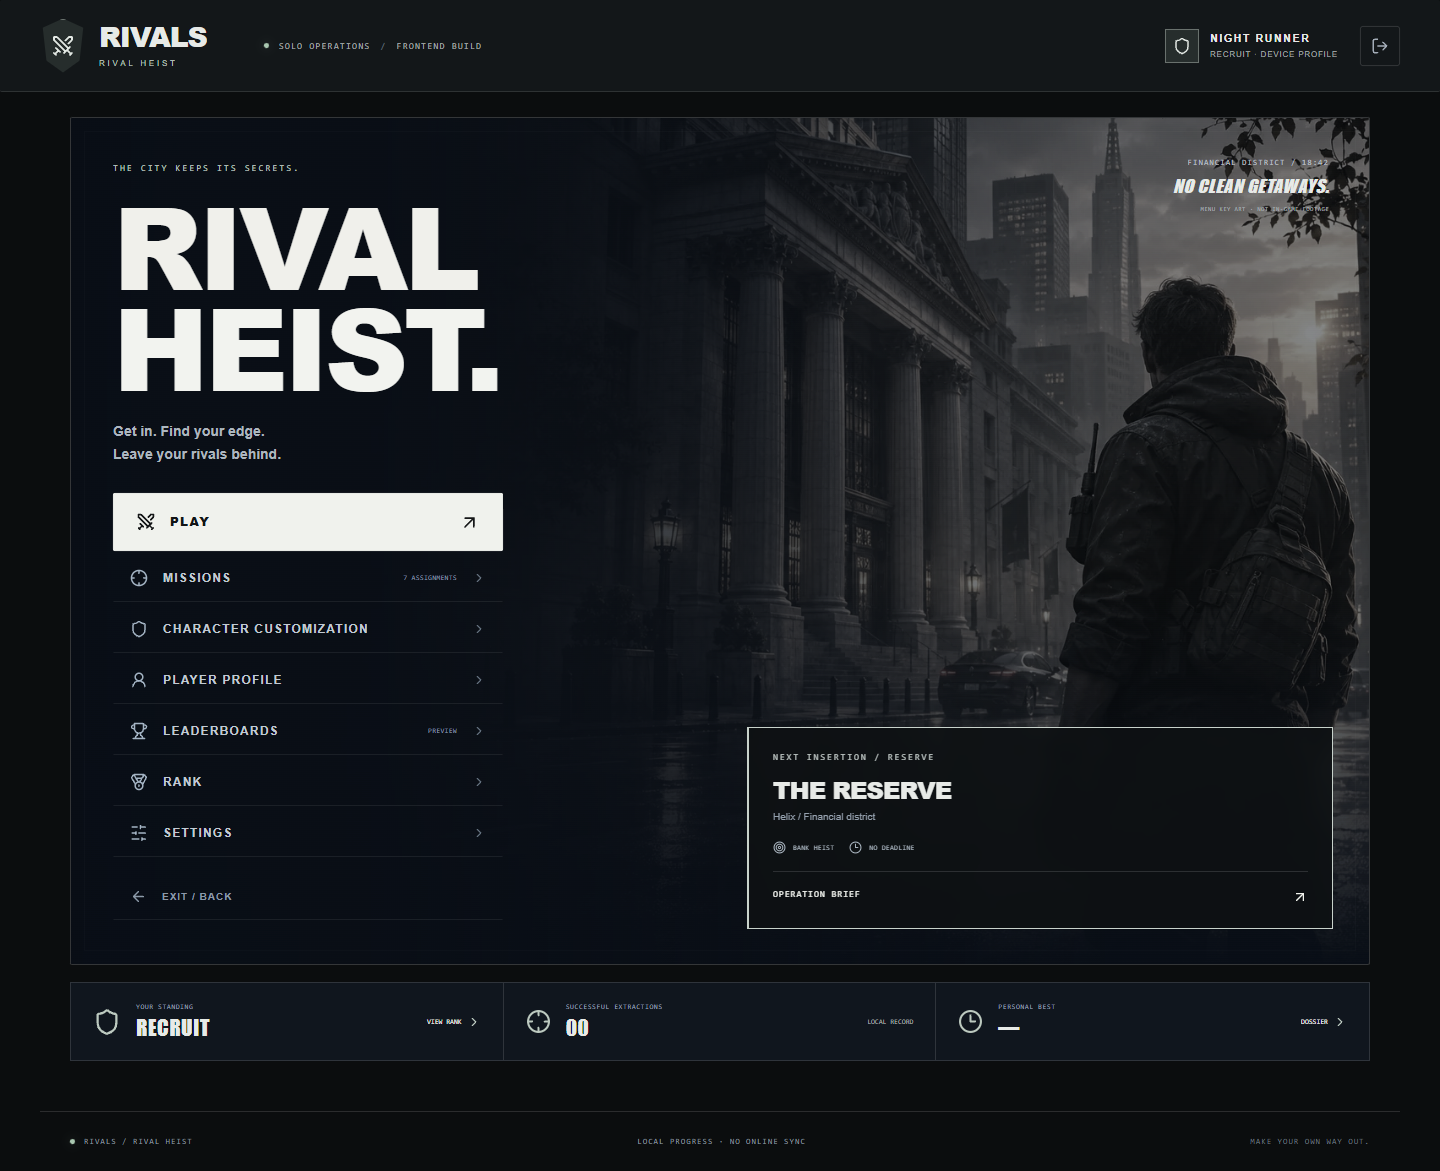
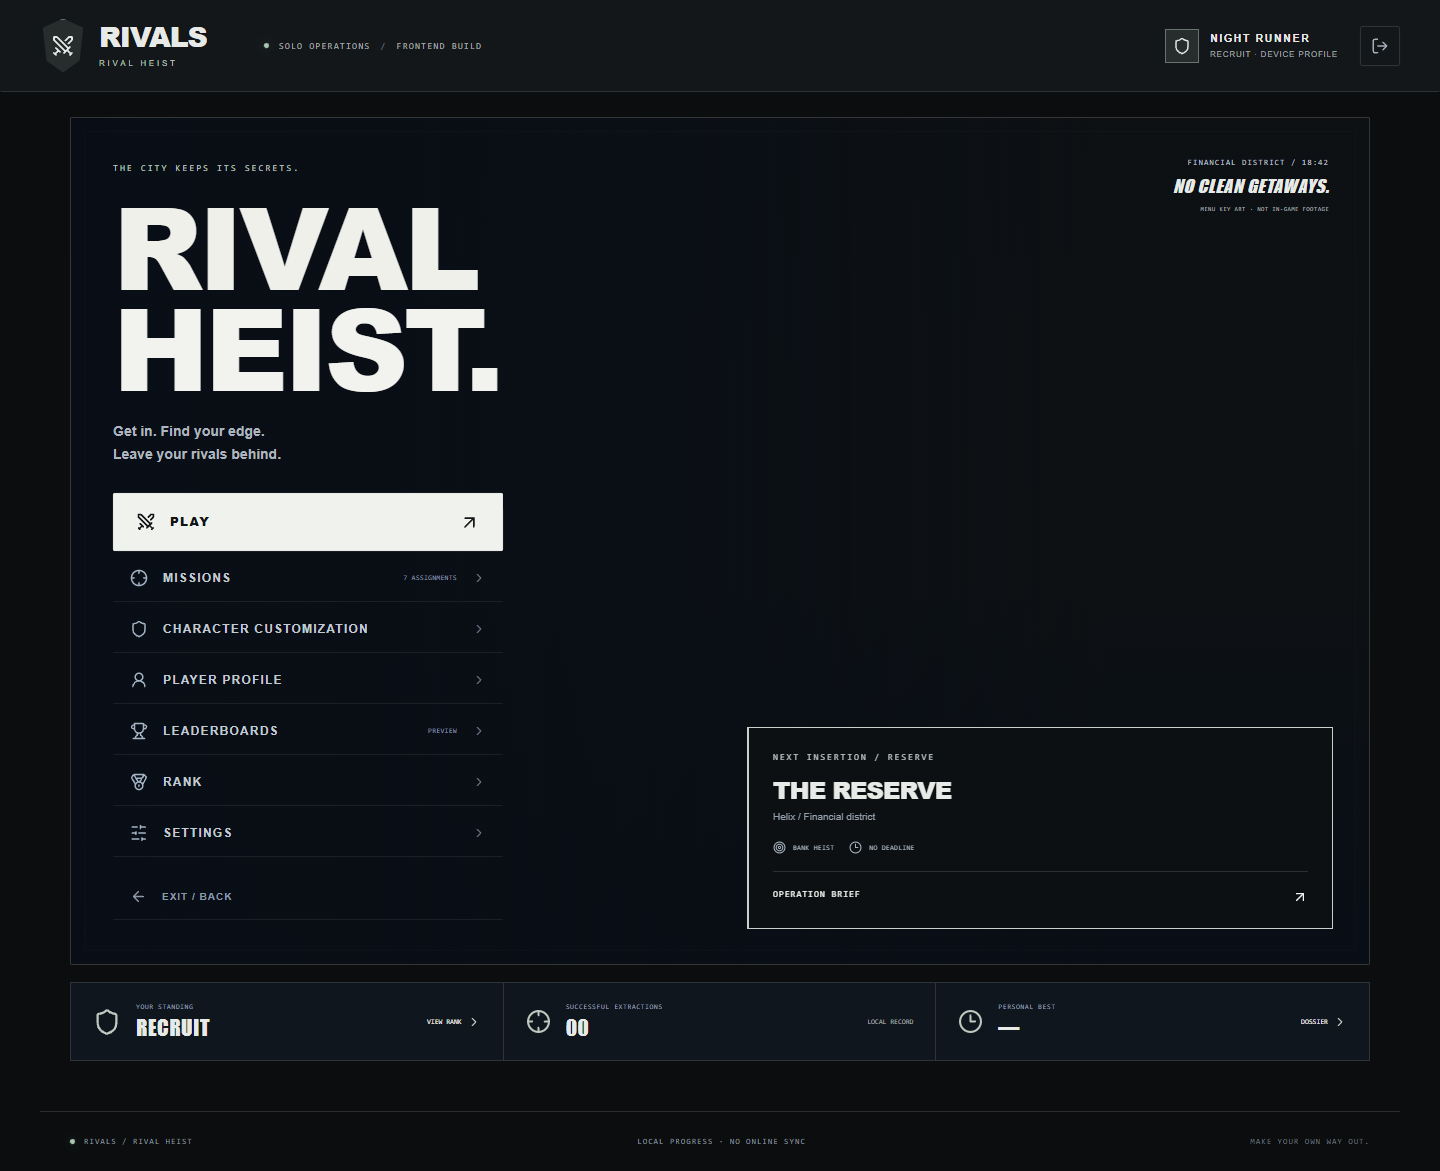
Fix mission interior routing and traffic parking clearance

Changed region(s): [[0.5312, 0.0922, 0.9688, 0.7378], [0.5625, 0.5841, 0.5938, 0.6149], [0.4375, 0.4304, 0.4688, 0.4611]]

diff --git a/robina/src/features/rivals/three/Campaign.test.ts b/robina/src/features/rivals/three/Campaign.test.ts
@@ -12,7 +12,7 @@ import { VehicleController,addParkedVehicles,driveVehicle,vehicleOverlap } from 
 import { PolicePursuit } from './PolicePursuit';
 import { CampaignGameplay } from './CampaignGameplay';
 import { moveKinematic } from './physics3d';
-function setup(index=0){const operation=createAssignmentOperation(index,43),world=new WorldState(operation.level);addAssignmentWalls(world,ASSIGNMENTS[index]);const solids=convertSolids(world),grid=new NavigationGrid(world.level.width,world.level.height,64,world.blockers),traffic=new CitySimulation(44);addParkedVehicles(traffic.cars);const vehicles=new VehicleController(traffic.cars),deploy=vi.fn(),police=new PolicePursuit(traffic.cars,grid,solids,ASSIGNMENTS[index].response,deploy),mission=new MissionEngine(operation.mission,'campaign-test-'+index);mission.prepare();mission.start();const game=new CampaignGameplay(index,mission,world,vehicles,police,grid);return{operation,world,solids,grid,vehicles,deploy,police,mission,game};}
+function setup(index=0){const operation=createAssignmentOperation(index,43),world=new WorldState(operation.level);addAssignmentWalls(world,ASSIGNMENTS[index]);const solids=convertSolids(world),grid=new NavigationGrid(world.level.width*2,world.level.height*2,32,world.blockers),traffic=new CitySimulation(44);addParkedVehicles(traffic.cars);const vehicles=new VehicleController(traffic.cars),deploy=vi.fn(),police=new PolicePursuit(traffic.cars,grid,solids,ASSIGNMENTS[index].response,deploy),mission=new MissionEngine(operation.mission,'campaign-test-'+index);mission.prepare();mission.start();const game=new CampaignGameplay(index,mission,world,vehicles,police,grid);return{operation,world,solids,grid,vehicles,deploy,police,mission,game};}
 describe('continuous 3D campaign',()=>{
   it('defines seven distinct assignments without numbered levels or difficulty selectors',()=>{expect(ASSIGNMENTS).toHaveLength(7);expect(new Set(ASSIGNMENTS.map(a=>a.type)).size).toBe(7);for(const a of ASSIGNMENTS){const mission=assignmentMission(a);expect(mission.timer.seconds).toBeNull();expect(mission.success).toEqual(['extract']);expect(mission.objectives.find(o=>o.id==='extract')!.prerequisites).toContain('recover');}});
   it.each(ASSIGNMENTS.map((a,i)=>[a.id,i] as const))('%s validates every interior and extraction route',(_,index)=>{const s=setup(index);for(const objective of s.operation.mission.objectives){const route=s.grid.path(s.world.level.spawn,objective.marker);expect(route.length).toBeGreaterThan(0);expect(Math.hypot(route.at(-1)!.x-objective.marker.x,route.at(-1)!.y-objective.marker.y)).toBeLessThan(110);}expect(s.solids.filter(s=>s.id.startsWith('mission-wall-'))).toHaveLength(5);});
@@ -25,6 +25,7 @@ describe('continuous 3D campaign',()=>{
   it('does not lose contact while an officer has a clear nearby sightline',()=>{const s=setup();s.police.alert();for(let i=0;i<100;i++)s.police.step(.1,{x:288,y:288},[{x:300,y:300,alive:true}]);expect(s.police.lost).toBe(false);});
 });
 describe('driving, collision and traversal',()=>{
+  it('keeps parked spawn footprints out of live traffic over repeated city seeds',()=>{for(let seed=0;seed<60;seed++){const traffic=new CitySimulation(seed);addParkedVehicles(traffic.cars);for(const parked of traffic.cars.filter(c=>c.mode==='parked')){const solid={id:'parking',kind:'cover' as const,enabled:true,box:new Box3(),oriented:{center:new Vector3(parked.x,1,parked.z),half:new Vector3(['lorry','tanker','bus'].includes(parked.kind)?1.175:.925,1,parked.length/2),yaw:Math.atan2(parked.dx,parked.dz)}};solid.box.setFromCenterAndSize(solid.oriented.center,new Vector3(parked.length,2,2.35));for(const car of traffic.cars.filter(c=>c.mode==='traffic'))expect(vehicleOverlap(car,car.x,car.z,Math.atan2(car.dx,car.dz),solid),`seed ${seed} vehicle ${car.id}`).toBe(false);}}});
   it('enters and exits actual cars, clears their driver and rejects high-speed/blocked exits',()=>{const s=setup(),car=s.vehicles.cars[28],p=new Vector3(car.x,0,car.z+2),eject=vi.fn();car.driver=true;expect(s.vehicles.enter(car,p,[],eject)).toBe(true);expect(eject).toHaveBeenCalledOnce();expect(car.driver).toBe(false);car.speed=9;expect(s.vehicles.exit(p,[])).toBe(false);car.speed=0;expect(s.vehicles.exit(p,[])).toBe(true);expect(car.mode).toBe('parked');});
   it('sweeps the whole vehicle footprint instead of tunnelling through walls',()=>{const s=setup(),car=s.vehicles.cars[28];car.x=8;car.z=8;car.dx=1;car.dz=0;car.speed=19;const wall={id:'test-wall',kind:'wall' as const,enabled:true,box:new Box3(new Vector3(12,0,0),new Vector3(13,4,20))};for(let i=0;i<100;i++)driveVehicle(car,{throttle:1,steer:0,brake:false},1/60,[wall]);expect(car.x+car.length/2).toBeLessThan(12.1);expect(vehicleOverlap(car,car.x,car.z,Math.PI/2,wall)).toBe(false);});
   it('applies distance-based blast damage and disables destroyed vehicles',()=>{const s=setup(),near=s.vehicles.cars[28],far=s.vehicles.cars[29];near.x=near.z=8;far.x=far.z=70;s.vehicles.blast(new Vector3(8,0,8),7,300);expect(near.health).toBe(0);expect(near.mode).toBe('disabled');expect(far.health).toBe(200);expect(s.vehicles.enter(near,new Vector3(8,0,8),[])).toBe(false);});

diff --git a/robina/src/features/rivals/three/VehicleController.ts b/robina/src/features/rivals/three/VehicleController.ts
@@ -1,6 +1,6 @@
 import { Box3,Vector3 } from 'three';
 import type { CityCar } from './CitySimulation';
-import { carActive, VEHICLE_LENGTH } from './CitySimulation';
+import { carActive, VEHICLE_LENGTH,sampleRoute } from './CitySimulation';
 import type { Solid3D } from './world3d';
 import { horizontalContact,traceSolids } from './physics3d';
 export interface DrivingInput { throttle:number; steer:number; brake:boolean }
@@ -34,8 +34,11 @@ export function driveVehicle(car:CityCar,input:DrivingInput,dt:number,solids:rea
 }
 export function addParkedVehicles(cars:CityCar[]){
   const template=cars[0];if(!template)return;
-  const parking=[{x:18,z:11},{x:44,z:59},{x:68,z:83},{x:68,z:35}];
+  const parking=[{x:18,z:3.5},{x:44,z:27.3},{x:68,z:51.3},{x:68,z:75.3}];
   for(const [index,kind]of (['sedan','van','lorry','coupe'] as const).entries())cars.push({...template,id:cars.length,kind,...parking[index],dx:1,dz:0,length:VEHICLE_LENGTH[kind],speed:0,travelled:0,health:200,mode:'parked',driver:false,door:0});
+  // Traffic was distributed before parking existed. Resolve conflicts before
+  // any scene is shown, never by teleporting an already visible vehicle.
+  for(const car of cars){if(car.mode!=='traffic')continue;for(let attempt=0;attempt<80&&cars.some(other=>other!==car&&Math.hypot(other.x-car.x,other.z-car.z)<(other.length+car.length)/2+1);attempt++){car.distance=(car.distance+8)%car.total;Object.assign(car,sampleRoute(car,car.distance));}}
 }
 export class VehicleController {
   current:CityCar|null=null;nearby:CityCar|null=null;message='';private doors=new Map<number,number>();

diff --git a/robina/src/features/rivals/three/Operations.ts b/robina/src/features/rivals/three/Operations.ts
@@ -61,7 +61,7 @@ export function createAssignmentOperation(index=0,seed=crypto.getRandomValues(ne
   const a=assignmentAt(index),base=seed%4294967200,normalized=base-base%21+index*3+a.district,operation=createOperation(normalized,index+1);
   const level=operation.level,mission=assignmentMission(a),s=a.site;
   level.title=a.name;level.props=[];level.targets=[];level.markers=[];level.signs=[];level.zones=[];
-  level.objects=mission.objectives.filter(o=>o.id.startsWith('task-')||o.id==='recover'||o.id==='extract').map(o=>({id:o.event,kind:o.id==='extract'?'extraction':o.id==='recover'?'collectible':'terminal',name:o.title,x:o.marker.x,y:o.marker.y,range:85}));
+  level.objects=mission.objectives.filter(o=>o.id.startsWith('task-')||o.id==='recover'||o.id==='extract').map(o=>({id:o.event,kind:o.id==='extract'?'extraction':o.id==='recover'?'collectible':'terminal',name:o.title,x:o.marker.x,y:o.marker.y,range:85,solid:o.id.startsWith('task-')&&!a.convoy?{width:26,height:18}:undefined}));
   level.enemies=Array.from({length:a.security},(_,i)=>{const x=(s.x-3+(i%3)*3)*40,y=(s.z+1+Math.floor(i/3)*2)*40;return{id:'site-guard-'+i,type:index>3&&i%3===0?'heavy' as const:i%2?'enforcer' as const:'guard' as const,x,y,angle:Math.PI/2,patrol:[{x,y},{x,y:y+55},{x:x+25,y:y+55},{x:x+25,y}]};});
   level.security={...level.security,cameras:[],lasers:[],hacks:[]};
   return {...operation,mission,assignment:index,fingerprint:operation.fingerprint+':assignment:'+a.id};

diff --git a/robina/src/features/rivals/three/world3d.ts b/robina/src/features/rivals/three/world3d.ts
@@ -18,7 +18,7 @@ export function convertSolids(world: WorldState): Solid3D[] {
   return [
     ...world.blockers.map(b => {
       const kind: Solid3D['kind'] = b.id.startsWith('wall-')||b.id.startsWith('mission-wall-') ? 'wall' : ['transit-door','vault-gate','vault','guardian-lockdown'].includes(b.id) ? 'door' : 'cover';
-      const height = kind === 'wall' ? (city?buildingAt(city,b.x*METRES,b.y*METRES)?.height??3.4:3.4) : kind === 'door' ? 3.1 : b.id.includes('console') || b.id.startsWith('relay') ? 1.25 : 1.05;
+      const height = kind === 'wall' ? (city?buildingAt(city,b.x*METRES,b.y*METRES)?.height??3.4:3.4) : kind === 'door' ? 3.1 : b.id.startsWith('task-')?1.3:b.id.includes('console') || b.id.startsWith('relay') ? 1.25 : 1.05;
       return { id: b.id,enabled: b.enabled,kind,box: new Box3(new Vector3((b.x - b.width / 2) * METRES,0,(b.y - b.height / 2) * METRES),new Vector3((b.x + b.width / 2) * METRES,height,(b.y + b.height / 2) * METRES)) };
     }),
     ...(city?[]:platformDefinitions).map(p => ({ id: p.id,enabled: true,kind: 'platform' as const,box: new Box3(new Vector3((p.x - p.width / 2) * METRES,0,(p.z - p.depth / 2) * METRES),new Vector3((p.x + p.width / 2) * METRES,p.height,(p.z + p.depth / 2) * METRES)) })),

diff --git a/robina/src/features/rivals/three/RaidRuntime.ts b/robina/src/features/rivals/three/RaidRuntime.ts
@@ -120,7 +120,8 @@ export class RaidRuntime {
     this.rig.perspective.far=this.rig.orthographic.far=300;
     this.world.blockers.push(this.lockdown); this.solids = convertSolids(this.world); validateConversion(this.solids,this.world.level);
     this.art = new WorldArt(this.world,this.solids,session.operation.venue,session.operation.seed); this.scene.add(this.art.root);
-    this.navigation = new NavigationGrid(this.world.level.width,this.world.level.height,64,this.world.blockers);
+    const navigationTile=session.operation.assignment!==undefined?32:64;
+    this.navigation = new NavigationGrid(this.world.level.width*64/navigationTile,this.world.level.height*64/navigationTile,navigationTile,this.world.blockers);
     this.boss = new BossController(new NavigationGrid(this.world.level.width,this.world.level.height,64,this.world.blockers,24));
     this.scene.add(this.player.root,this.bossActor.root,this.rig.perspective); this.bossActor.root.visible = false;
     const playerTarget: Target3D = { id: 'operative',team: 'operative',box: new T.Box3(),alive: () => this.controller.health > 0&&!this.vehicles?.current,damage: this.damage };

diff --git a/robina/src/features/rivals/three/CityEnvironment.ts b/robina/src/features/rivals/three/CityEnvironment.ts
@@ -138,7 +138,7 @@ export class CityEnvironment {
   }
   private missionProps(){
     const placements=new Map<CityModel,Placement[]>();
-    for(const solid of this.solids.filter(s=>s.kind==='cover'||s.kind==='platform')){
+    for(const solid of this.solids.filter(s=>(s.kind==='cover'||s.kind==='platform')&&!s.id.startsWith('mission-')&&!s.id.startsWith('task-'))){
       const s=solid.box.getSize(new T.Vector3()),c=solid.box.getCenter(new T.Vector3());
       const id:CityModel=solid.kind==='platform'?'platform':solid.id.includes('console')||solid.id.startsWith('relay')?'computer':solid.id.startsWith('cooling')?'vent':solid.id==='reactor'?'barrel':'crate';
       if(!placements.has(id))placements.set(id,[]);placements.get(id)!.push({x:c.x,z:c.z,width:s.x,depth:s.z,height:s.y});

diff --git a/robina/tests/production/app.spec.ts b/robina/tests/production/app.spec.ts
@@ -225,7 +225,7 @@ test('campaign GPS, real driving and landscape action groups remain usable',asyn
     expect(invalid,`${width}x${height} controls`).toEqual([]);
   }
   await page.setViewportSize({width:844,height:390});
-  await move(page,'x',720);await move(page,'y',380,8);
+  await move(page,'x',720);await move(page,'y',200,8);
   await expect(page.getByRole('button',{name:/ENTER SEDAN/})).toBeVisible();await page.getByRole('button',{name:/ENTER SEDAN/}).click();
   await expect(page.getByRole('button',{name:'Accelerate vehicle'})).toBeVisible();
   await page.keyboard.down('w');await expect.poll(async()=>JSON.parse((await page.getByTestId('three-state').getAttribute('data-vehicle'))!).speed).toBeGreaterThan(5);await page.keyboard.up('w');

diff --git a/robina/playwright.production.config.ts b/robina/playwright.production.config.ts
@@ -5,6 +5,7 @@ export default defineConfig({
   // Intercepted remote browser tests re-download vendor bundles on every visit.
   // Budget for network transfer across multi-page checks, not slower game logic.
   testDir: './tests/production', testMatch: '*.spec.ts', timeout: deployedURL ? 300000 : 60000, workers: 1, reporter: 'list',
+  expect: { timeout: deployedURL ? 30000 : 5000 },
   webServer: deployedURL ? undefined : { command: 'node node_modules/vite/bin/vite.js preview --host 127.0.0.1 --port 8082 --strictPort', url: 'http://127.0.0.1:8082', reuseExistingServer: false, timeout: 60000 },
   use: {
     baseURL: deployedURL || 'http://127.0.0.1:8082', viewport: { width: 1280, height: 800 },

diff --git a/robina/docs/RIVALS_CAMPAIGN_RELEASE.md b/robina/docs/RIVALS_CAMPAIGN_RELEASE.md
@@ -125,3 +125,16 @@ release handoff; this document does not assert that unrun checks passed.
 - Existing model assets and backend code remain unchanged.
 
 Physical-device, real Google account and phone-FPS limitations above still apply.
+
+### Hosted validation follow-up
+
+The hosted preview exposed a parked-car/traffic spawn overlap that could trap a
+car. Parking now uses clear curb positions and initial traffic conflicts are
+resolved before the first scene is displayed. A 60-seed oriented-footprint
+regression passes. Physical consoles use the same world blockers as movement;
+the existing foot-navigation grid is refined for interior clearances. All seven
+completion flows and interior routes pass after that change.
+
+Hosted browser assertions use a 30-second cold-network budget instead of the
+five-second local default. This changes test waiting only, not loading progress,
+game simulation, performance targets or failure detection.
